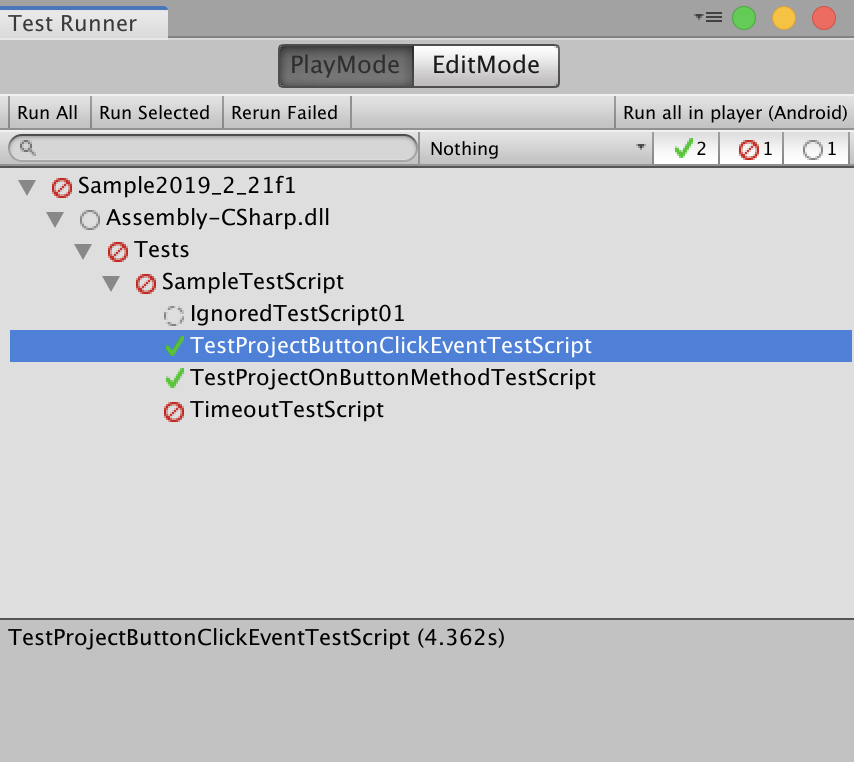
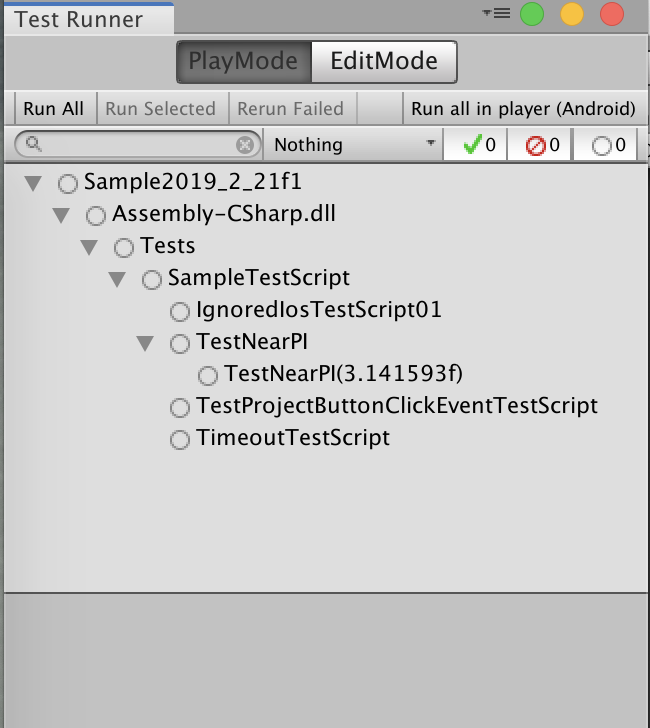
Update Unity test document

Changed region(s): [[0.0, 0.0, 1.0, 1.0]]

diff --git a/unity/unit_test/SampleTestScript.cs b/unity/unit_test/SampleTestScript.cs
@@ -1,0 +1,79 @@
+using System.Collections;
+using NUnit.Framework;
+using UnityEngine;
+using UnityEngine.UI;
+using UnityEngine.TestTools;
+using UnityEngine.SceneManagement;
+using TestProject;
+using Assert = UnityEngine.Assertions.Assert;
+
+namespace Tests
+{
+    public class SampleTestScript
+    {
+        // GameObject mainSceneObject;
+        GameObject debugButtonObject;
+
+        // Setup for test exec
+        [SetUp]
+        public void Init()
+        {
+            // Load a scene for test
+            SceneManager.LoadScene("MainScene");
+        }
+
+        // Argument(s) value check
+        [TestCase(3.141593f)]
+        public void TestNearPI(float value)
+        {
+            // Is near PI
+            Assert.AreApproximatelyEqual(Mathf.PI, value);
+        }
+
+        // Button onClick test
+        [UnityTest]
+        public IEnumerator TestProjectButtonClickEventTestScript()
+        {
+            if (debugButtonObject == null)
+            {
+                // Get a scene Buttom of test target
+                debugButtonObject = GameObject.Find("Button_Test");
+            }
+            Button debugButton = debugButtonObject.GetComponent<Button>();
+            // Is not null object
+            Assert.IsNotNull(debugButton);
+            // Wait 2 seconds
+            yield return new WaitForSeconds(2f);
+            // Call onClick event of Button
+            debugButton.onClick.Invoke();
+            // Wait 2 seconds
+            yield return new WaitForSeconds(2f);
+            // Finish
+            yield return null;
+        }
+
+        // Ignore if iOS
+        [UnityTest]
+#if UNITY_IOS
+        [Ignore("Ignored if iOS")]
+#endif
+        public IEnumerator IgnoredIosTestScript01()
+        {
+            // Wait 12 seconds
+            yield return new WaitForSeconds(12f);
+            // Finish
+            yield return null;
+        }
+
+        // Timeout[ms] sample
+        [UnityTest]
+        [Timeout(5000)]
+        public IEnumerator TimeoutTestScript()
+        {
+            // Wait 12 seconds
+            yield return new WaitForSeconds(12f);
+            // Finish
+            yield return null;
+        }
+    }
+}

diff --git a/unity/unit_test/README.md b/unity/unit_test/README.md
@@ -68,103 +68,7 @@ Test Framework
 
 - テストスクリプトをエディタで開き、シナリオを書く
 
-<details><summary>テストスクリプト例</summary><div>
-
-```c#
-using System.Collections;
-using NUnit.Framework;
-using UnityEngine;
-using UnityEngine.UI;
-using UnityEngine.TestTools;
-using UnityEngine.SceneManagement;
-using TestProject;
-
-namespace Tests
-{
-    public class SampleTestScript
-    {
-        GameObject mainSceneObject;
-        GameObject debugButtonObject;
-
-        // Setup for test exec
-        [SetUp]
-        public void Init()
-        {
-            // Load a scene for test
-            SceneManager.LoadScene("MainScene");
-        }
-
-        // A UnityTest behaves like a coroutine in Play Mode. In Edit Mode you can use
-        // `yield return null;` to skip a frame.
-        [UnityTest]
-        public IEnumerator TestProjectOnButtonMethodTestScript()
-        {
-            // Use the Assert class to test conditions.
-            // Use yield to skip a frame.
-            if (mainSceneObject == null)
-            {
-                // Get a scene object of test target
-                mainSceneObject = GameObject.Find("GameObject_MainScene");
-            }
-            // Get a script class of test target
-            MainScene mainScene = mainSceneObject.GetComponentInChildren<MainScene>();
-            // Wait 2 seconds
-            yield return new WaitForSeconds(2f);
-            // Call a method of test target
-            mainScene.OnButton();
-            // Wait 2 seconds
-            yield return new WaitForSeconds(2f);
-            // Finish
-            yield return null;
-        }
-
-        [UnityTest]
-        public IEnumerator TestProjectButtonClickEventTestScript()
-        {
-            if (debugButtonObject == null)
-            {
-                // Get a scene Buttom of test target
-                debugButtonObject = GameObject.Find("Button_Test");
-            }
-            Button debugButton = debugButtonObject.GetComponent<Button>();
-            // Wait 2 seconds
-            yield return new WaitForSeconds(2f);
-            // Call onClick event of Button
-            debugButton.onClick.Invoke();
-            // Wait 2 seconds
-            yield return new WaitForSeconds(2f);
-            // Finish
-            yield return null;
-        }
-
-
-        [UnityTest]
-#if UNITY_ANDROID
-        [Ignore("BAN!")]
-#endif
-        public IEnumerator IgnoredTestScript01()
-        {
-            // Wait 12 seconds
-            yield return new WaitForSeconds(12f);
-            // Finish
-            yield return null;
-        }
-
-        [UnityTest]
-        [Timeout(5000)]
-        public IEnumerator TimeoutTestScript()
-        {
-            // Wait 12 seconds
-            yield return new WaitForSeconds(12f);
-            // Finish
-            yield return null;
-        }
-
-    }
-}
-```
-
-</div></details>
+[テストスクリプト例](SampleTestScript.cs)
 
 - ```Test Runner```にテストシナリオが反映されているのを確認
 
@@ -172,7 +76,13 @@ namespace Tests
 
 ### 注意点
 
-- シナリオから必ず対象の```Scene```を指定する
+- ```Assert```クラスはUnity標準を用いる
+
+```c#
+using Assert = UnityEngine.Assertions.Assert;
+```
+
+- テスト前に必ず対象の```Scene```を指定する
 
 ```C#
 // Setup for test exec
@@ -214,7 +124,7 @@ public void Init()
 
 ## テストは成功した、しかし…
 
-### なぜ```Create PlayMode Test Assembly Folder```が動作してくれないのか？
+### なぜ```Create PlayMode Test Assembly Folder```が正しく動作してくれないのか？
 
 <img src="kibayasi02.jpg" width="800">
 
